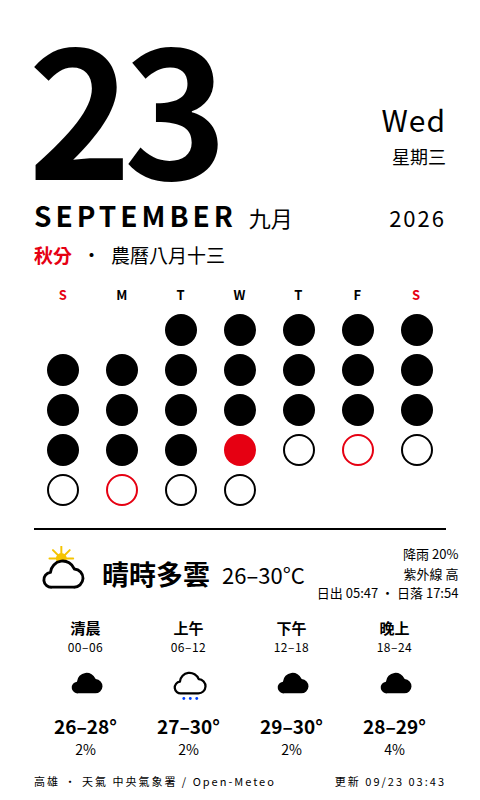
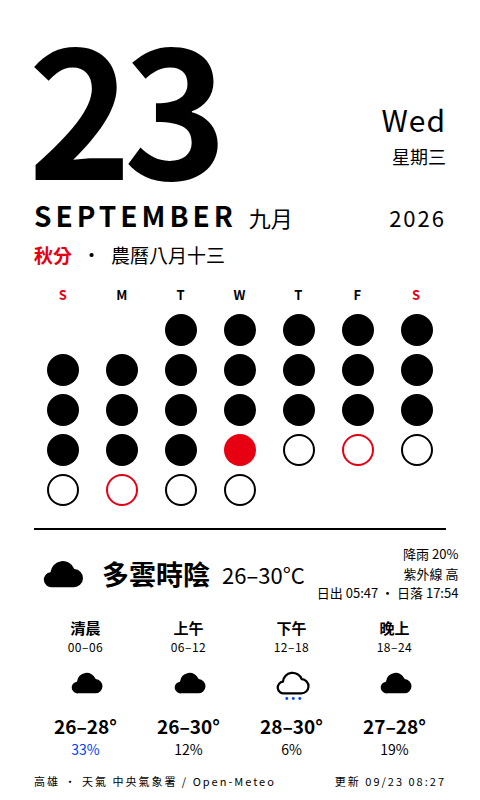
deploy: cf7d1051eb6821bc691ba0ade4beb12cdf9fe0ef

diff --git a/calendar.html b/calendar.html
@@ -54,9 +54,9 @@
   <div class="today"><span class="hl">秋分</span><span>·</span><span class="lunar">農曆八月十三</span></div>
   <div class="grid"><div class="h we">S</div><div class="h">M</div><div class="h">T</div><div class="h">W</div><div class="h">T</div><div class="h">F</div><div class="h we">S</div><div class="dot empty"></div><div class="dot empty"></div><div class="dot past" title="1"></div><div class="dot past" title="2"></div><div class="dot past" title="3"></div><div class="dot past" title="4"></div><div class="dot past" title="5"></div><div class="dot past" title="6"></div><div class="dot past" title="7"></div><div class="dot past" title="8"></div><div class="dot past" title="9"></div><div class="dot past" title="10"></div><div class="dot past" title="11"></div><div class="dot past" title="12"></div><div class="dot past" title="13"></div><div class="dot past" title="14"></div><div class="dot past" title="15"></div><div class="dot past" title="16"></div><div class="dot past" title="17"></div><div class="dot past" title="18"></div><div class="dot past" title="19"></div><div class="dot past" title="20"></div><div class="dot past" title="21"></div><div class="dot past" title="22"></div><div class="dot now" title="23"></div><div class="dot future" title="24"></div><div class="dot future hol" title="25"></div><div class="dot future" title="26"></div><div class="dot future" title="27"></div><div class="dot future hol" title="28"></div><div class="dot future" title="29"></div><div class="dot future" title="30"></div></div>
   <div class="wx"><div class="line">
-    <div class="wxhead"><svg viewBox="0 0 64 68" xmlns="http://www.w3.org/2000/svg"><g transform="translate(12 -4) scale(.6)"><circle cx="32" cy="32" r="11" fill="#f5c400"/><g stroke="#f5c400" stroke-width="4" stroke-linecap="round"><line x1="32" y1="32" x2="32" y2="8" transform="rotate(0 32 32)"/><line x1="32" y1="32" x2="32" y2="8" transform="rotate(45 32 32)"/><line x1="32" y1="32" x2="32" y2="8" transform="rotate(90 32 32)"/><line x1="32" y1="32" x2="32" y2="8" transform="rotate(135 32 32)"/><line x1="32" y1="32" x2="32" y2="8" transform="rotate(180 32 32)"/><line x1="32" y1="32" x2="32" y2="8" transform="rotate(225 32 32)"/><line x1="32" y1="32" x2="32" y2="8" transform="rotate(270 32 32)"/><line x1="32" y1="32" x2="32" y2="8" transform="rotate(315 32 32)"/></g></g><path d="M20 50h26a11 11 0 0 0 1-22 15 15 0 0 0-29 4 9 9 0 0 0 2 18z" fill="#fff" stroke="#000" stroke-width="3.5" stroke-linejoin="round"/></svg><span class="desc">晴時多雲</span><span class="temp">26–30°C</span>
+    <div class="wxhead"><svg viewBox="0 0 64 68" xmlns="http://www.w3.org/2000/svg"><path d="M20 50h26a11 11 0 0 0 1-22 15 15 0 0 0-29 4 9 9 0 0 0 2 18z" fill="#000"/></svg><span class="desc">多雲時陰</span><span class="temp">26–30°C</span>
       <div class="meta">降雨 20%<br>紫外線 高<br>日出 05:47 · 日落 17:54</div></div>
-    <div class="slots"><div class="slot"><div class="n">清晨</div><div class="hrs">00–06</div><svg viewBox="0 0 64 68" xmlns="http://www.w3.org/2000/svg"><path d="M20 50h26a11 11 0 0 0 1-22 15 15 0 0 0-29 4 9 9 0 0 0 2 18z" fill="#000"/></svg><div class="t">26–28°</div><div class="p dry">2%</div></div><div class="slot"><div class="n">上午</div><div class="hrs">06–12</div><svg viewBox="0 0 64 68" xmlns="http://www.w3.org/2000/svg"><path d="M20 50h26a11 11 0 0 0 1-22 15 15 0 0 0-29 4 9 9 0 0 0 2 18z" fill="#fff" stroke="#000" stroke-width="3.5" stroke-linejoin="round"/><g fill="#0040ff"><circle cx="24" cy="58" r="2.2"/><circle cx="34" cy="58" r="2.2"/><circle cx="44" cy="58" r="2.2"/></g></svg><div class="t">27–30°</div><div class="p dry">2%</div></div><div class="slot"><div class="n">下午</div><div class="hrs">12–18</div><svg viewBox="0 0 64 68" xmlns="http://www.w3.org/2000/svg"><path d="M20 50h26a11 11 0 0 0 1-22 15 15 0 0 0-29 4 9 9 0 0 0 2 18z" fill="#000"/></svg><div class="t">29–30°</div><div class="p dry">2%</div></div><div class="slot"><div class="n">晚上</div><div class="hrs">18–24</div><svg viewBox="0 0 64 68" xmlns="http://www.w3.org/2000/svg"><path d="M20 50h26a11 11 0 0 0 1-22 15 15 0 0 0-29 4 9 9 0 0 0 2 18z" fill="#000"/></svg><div class="t">28–29°</div><div class="p dry">4%</div></div></div>
+    <div class="slots"><div class="slot"><div class="n">清晨</div><div class="hrs">00–06</div><svg viewBox="0 0 64 68" xmlns="http://www.w3.org/2000/svg"><path d="M20 50h26a11 11 0 0 0 1-22 15 15 0 0 0-29 4 9 9 0 0 0 2 18z" fill="#000"/></svg><div class="t">26–28°</div><div class="p ">33%</div></div><div class="slot"><div class="n">上午</div><div class="hrs">06–12</div><svg viewBox="0 0 64 68" xmlns="http://www.w3.org/2000/svg"><path d="M20 50h26a11 11 0 0 0 1-22 15 15 0 0 0-29 4 9 9 0 0 0 2 18z" fill="#000"/></svg><div class="t">26–30°</div><div class="p dry">12%</div></div><div class="slot"><div class="n">下午</div><div class="hrs">12–18</div><svg viewBox="0 0 64 68" xmlns="http://www.w3.org/2000/svg"><path d="M20 50h26a11 11 0 0 0 1-22 15 15 0 0 0-29 4 9 9 0 0 0 2 18z" fill="#fff" stroke="#000" stroke-width="3.5" stroke-linejoin="round"/><g fill="#0040ff"><circle cx="24" cy="58" r="2.2"/><circle cx="34" cy="58" r="2.2"/><circle cx="44" cy="58" r="2.2"/></g></svg><div class="t">28–30°</div><div class="p dry">6%</div></div><div class="slot"><div class="n">晚上</div><div class="hrs">18–24</div><svg viewBox="0 0 64 68" xmlns="http://www.w3.org/2000/svg"><path d="M20 50h26a11 11 0 0 0 1-22 15 15 0 0 0-29 4 9 9 0 0 0 2 18z" fill="#000"/></svg><div class="t">27–28°</div><div class="p dry">19%</div></div></div>
   </div></div>
-  <div class="foot"><span>高雄 · 天氣 中央氣象署 / Open-Meteo</span><span>更新 09/23 03:43</span></div>
+  <div class="foot"><span>高雄 · 天氣 中央氣象署 / Open-Meteo</span><span>更新 09/23 08:27</span></div>
 </div></body></html>
